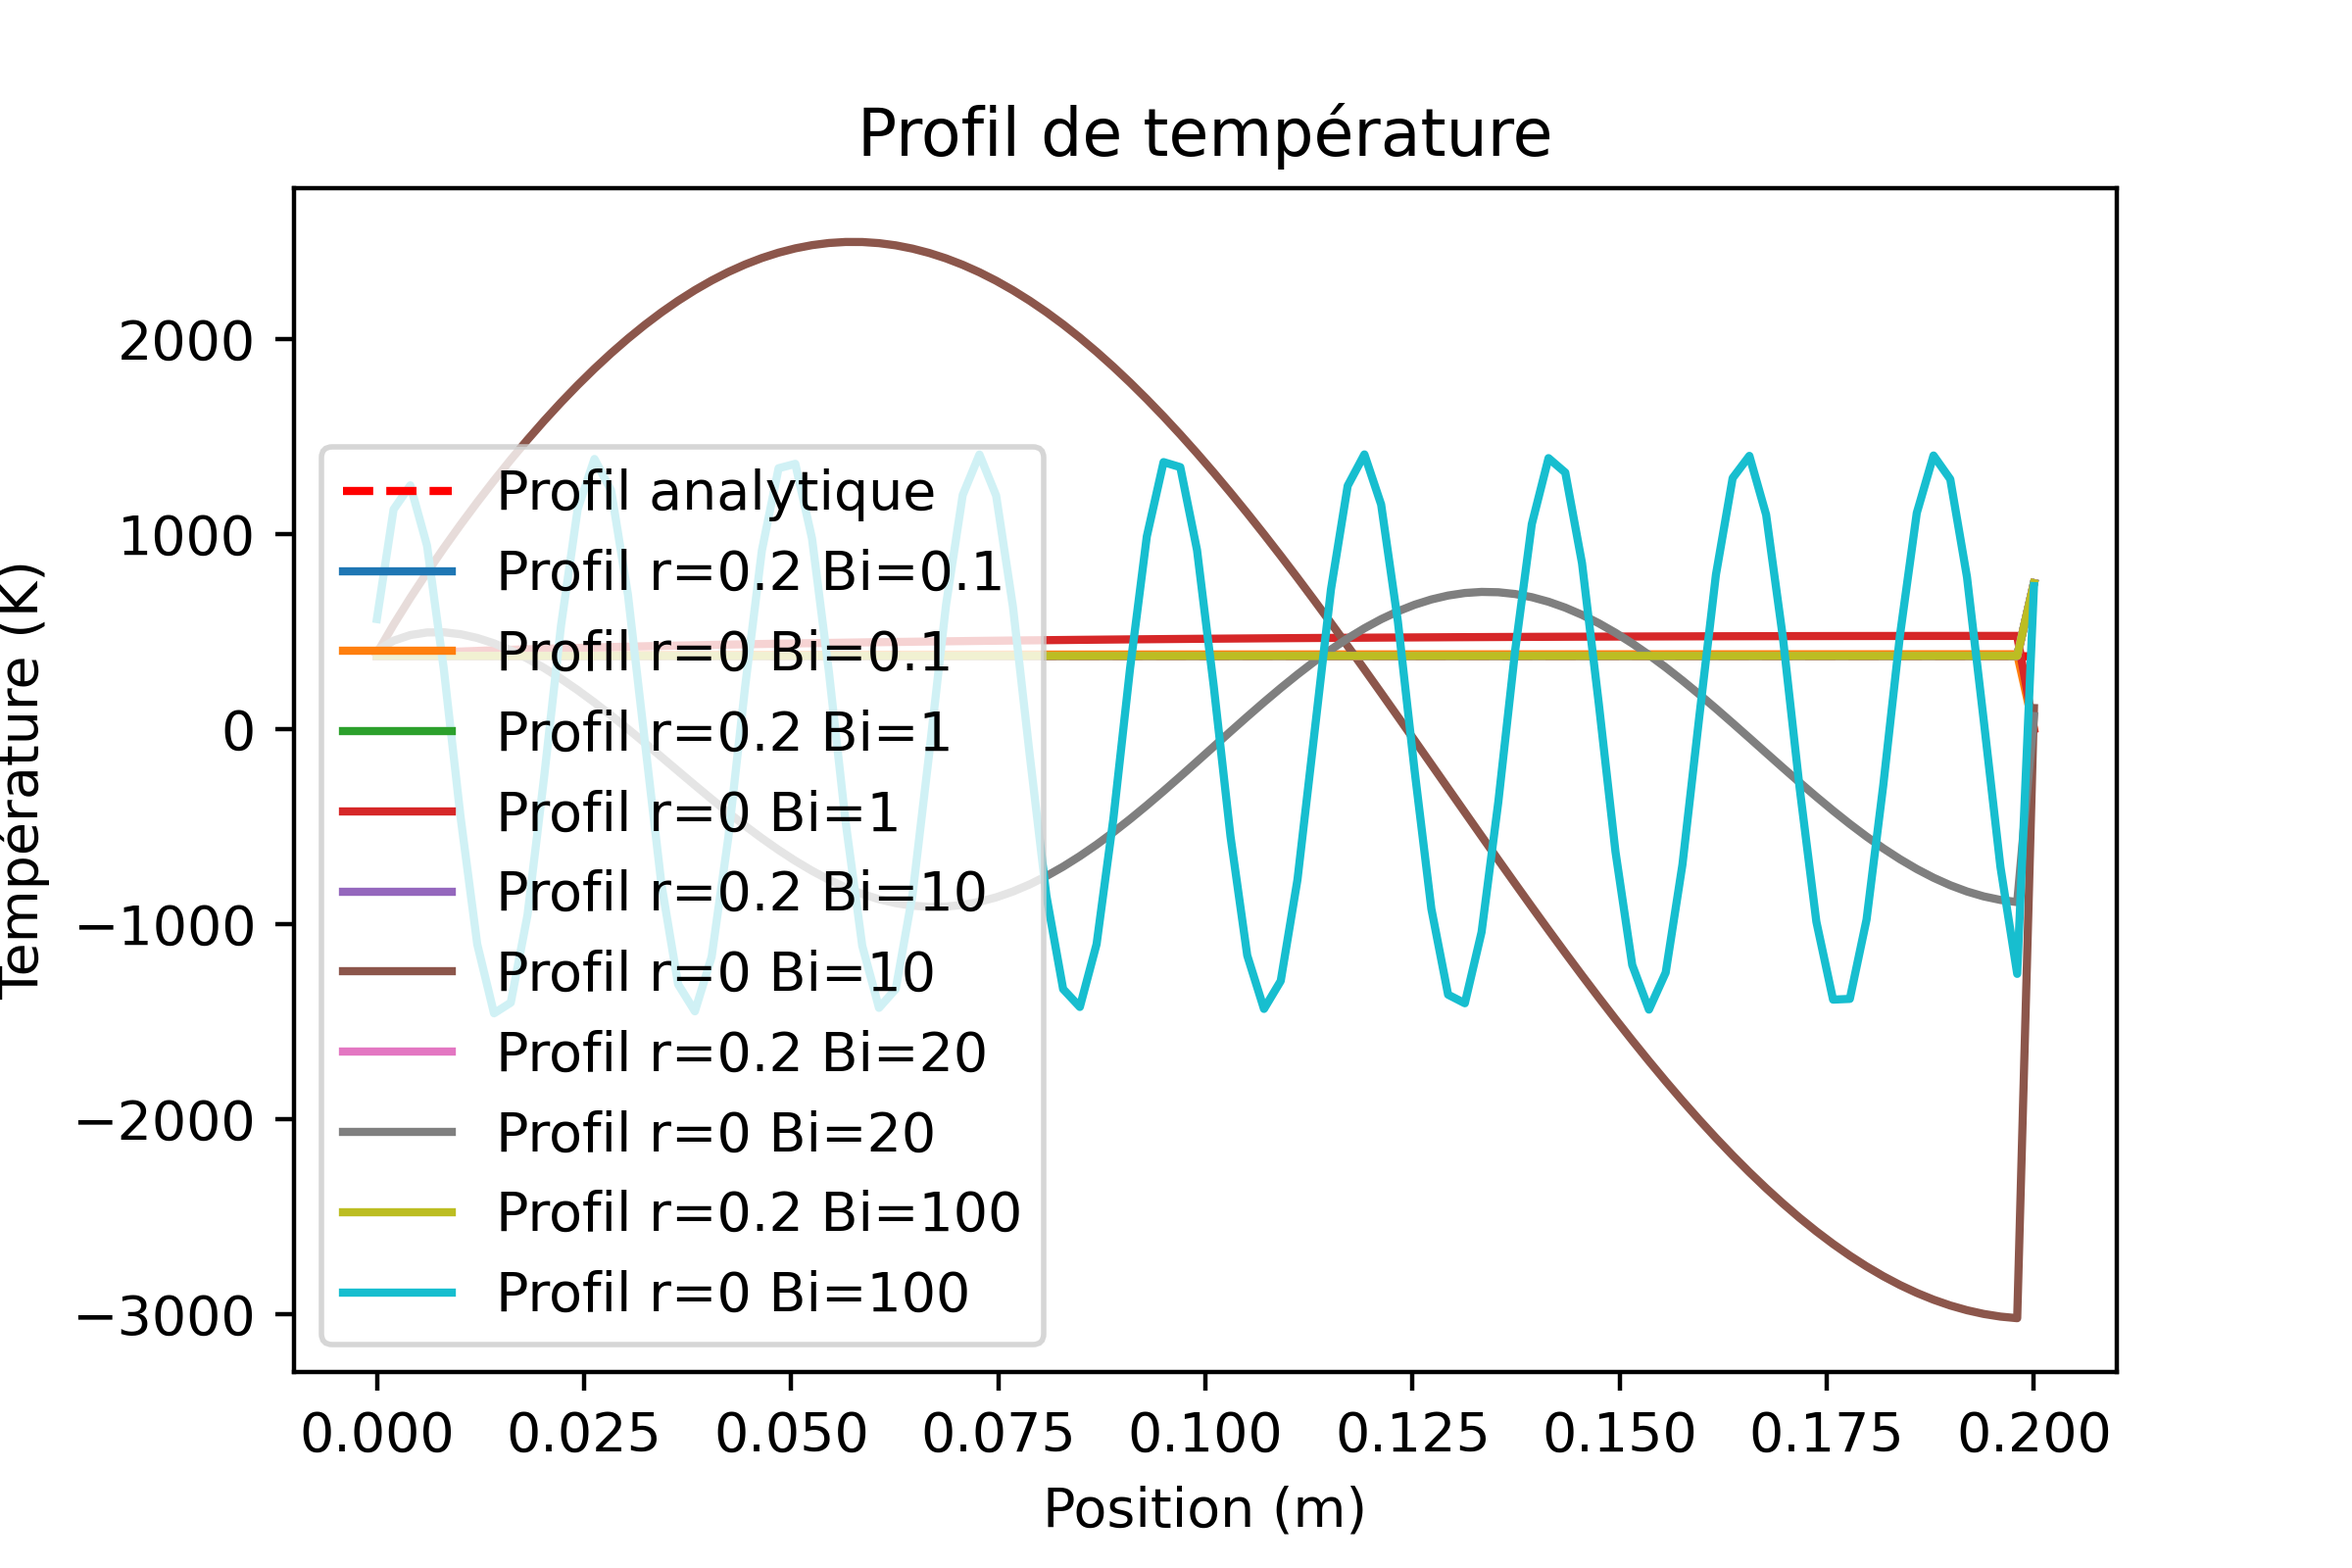
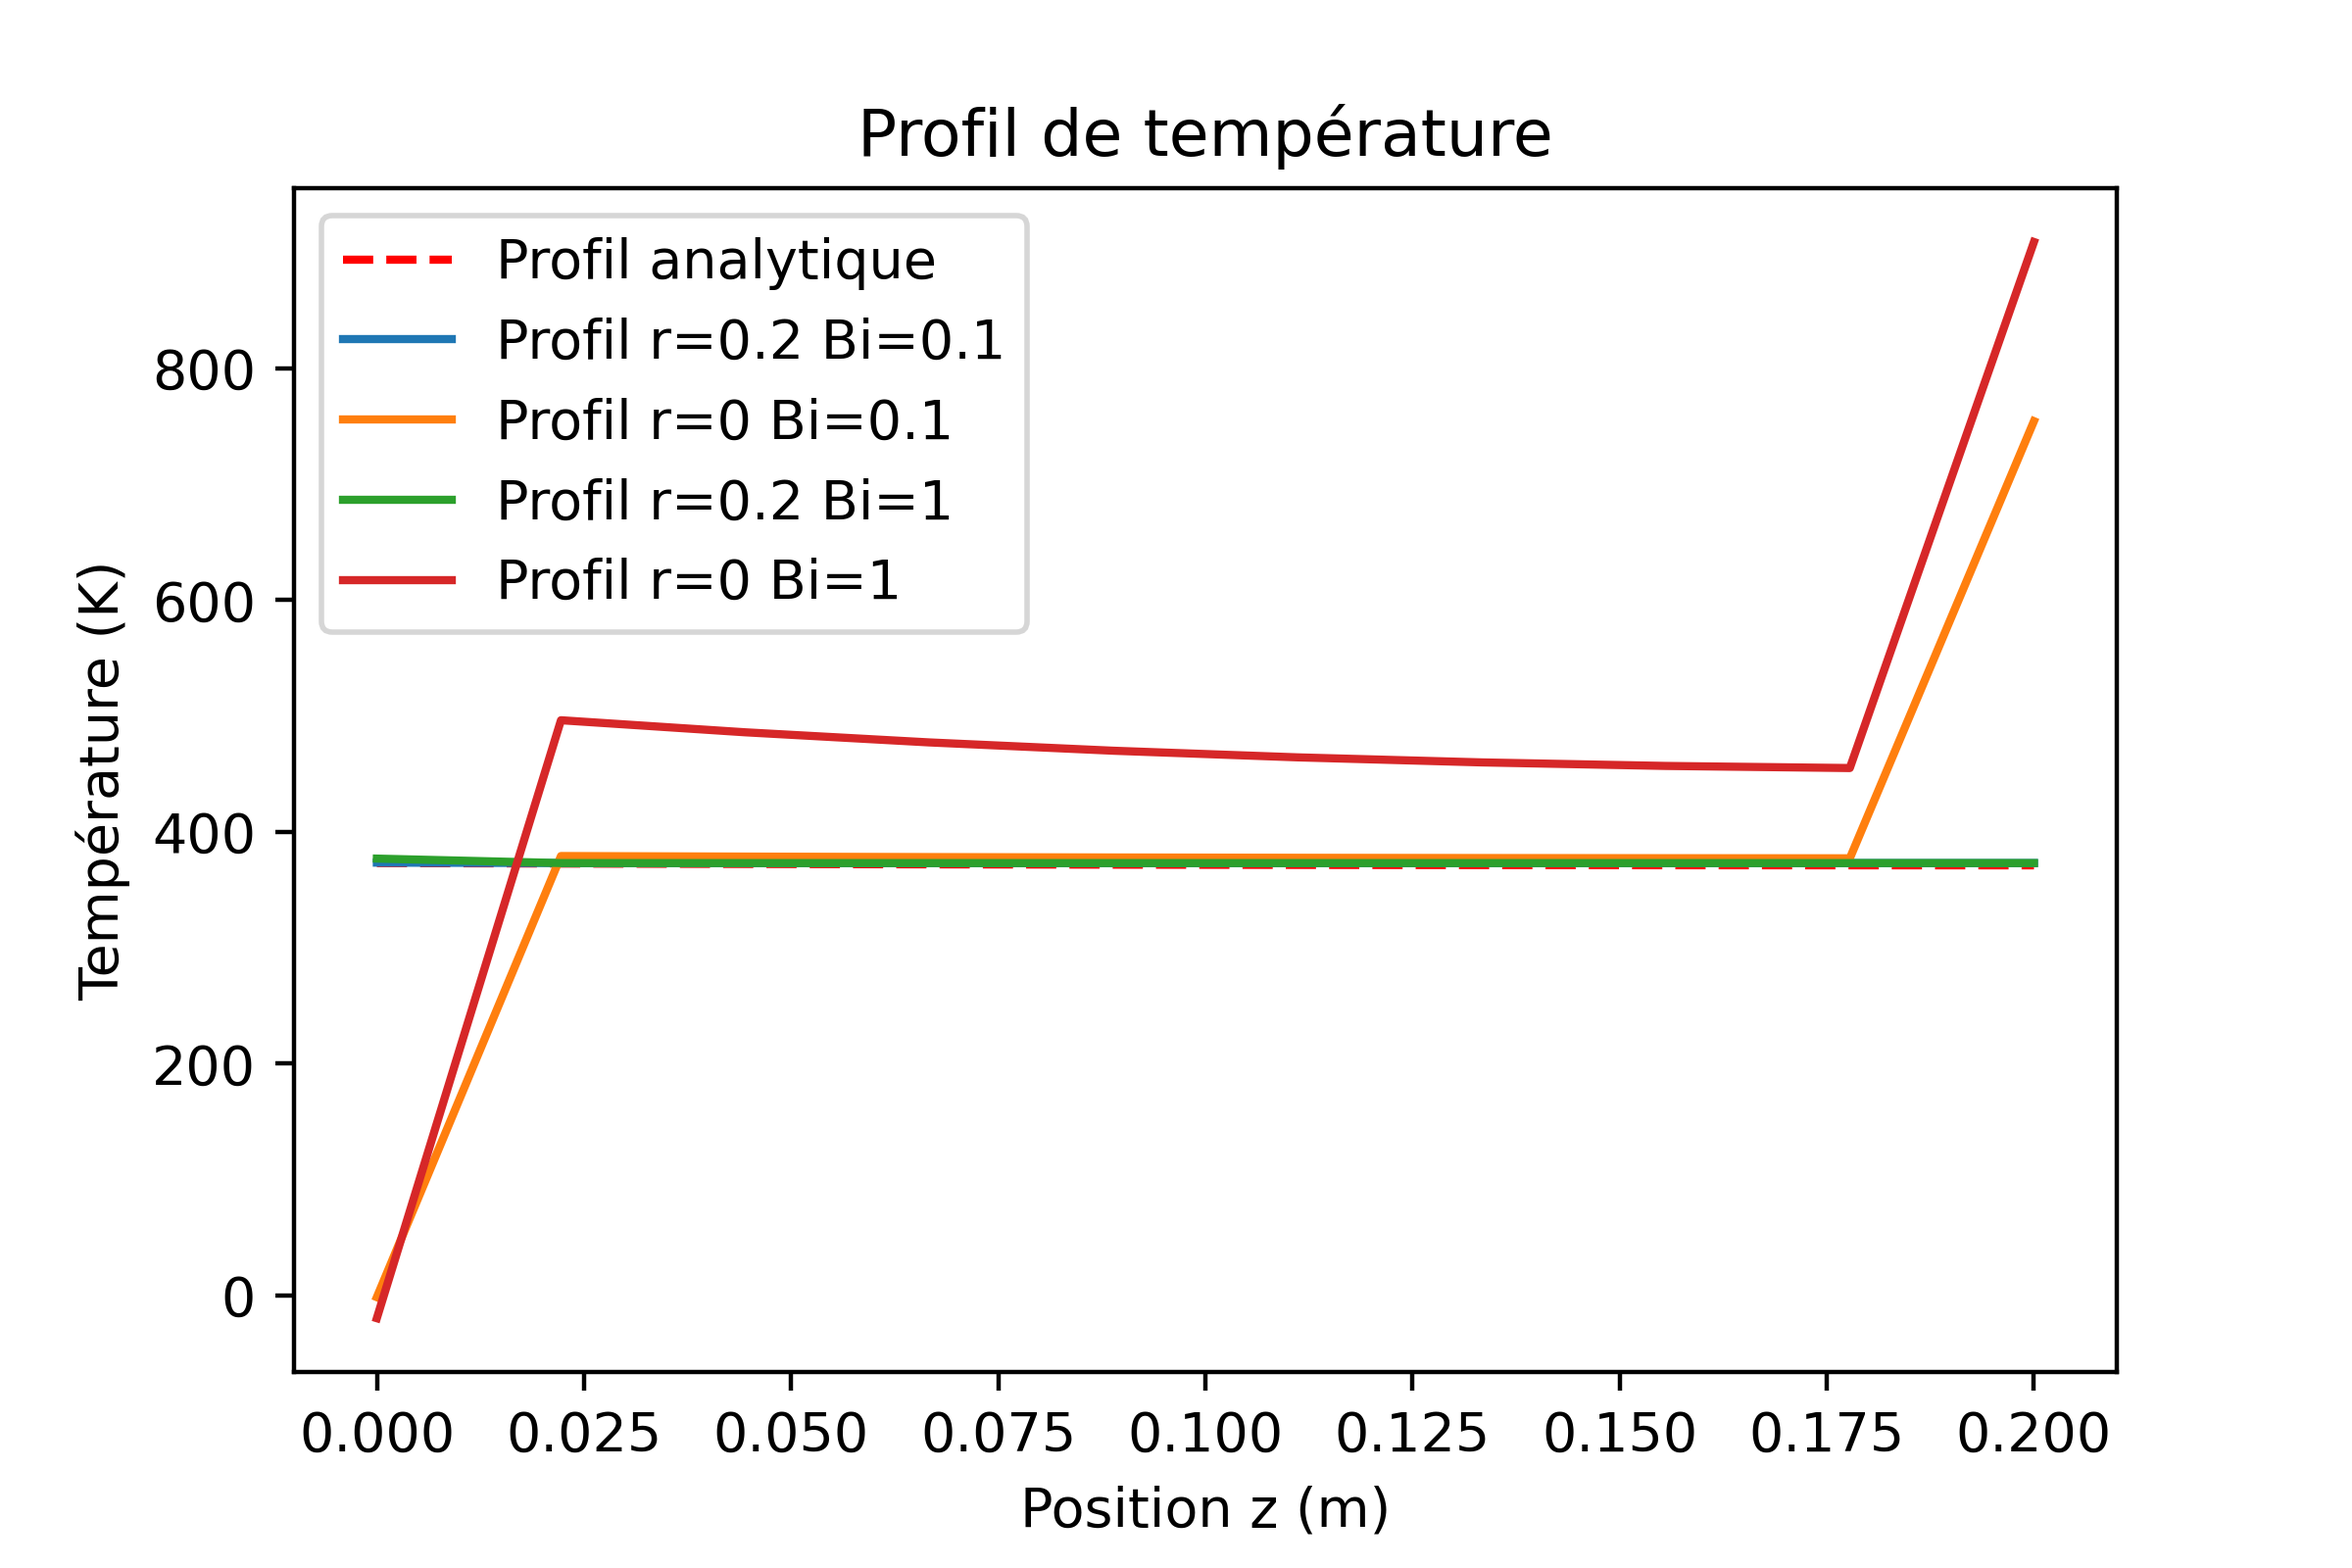
removed transpose

diff --git a/profil.py b/profil.py
@@ -140,31 +140,25 @@ def mdf_assemblage(X,Y,prm):
             k =  i*nr + j
             ri = R-j*dr
             
-            A[k,k+1] = 1/(ri*2*dr) + 1/(dr**2)
-            A[k,k-1] =-1/(ri*2*dr) + 1/(dr**2)
+            A[k,k+1] = -1/(ri*2*dr) + 1/(dr**2)
+            A[k,k-1] = 1/(ri*2*dr) + 1/(dr**2)
             A[k,k] = -2/(dr**2) -2/(dz**2)
             A[k,k+nr] = 1/(dz**2)
             A[k,k-nr] = 1/(dz**2)
             b[k] = 0
-            
-# =============================================================================
-#             
-#             A[k,k-nz] = -1/(x[j,i] * (2*dr)) + 1/(dr**2) 
-#             A[k,k-1] = 1/(dz**2)
-#             A[k,k] = -2/(dr**2) - 2/(dz)
-#             A[k,k+1] = 1/(dz**2)
-#             A[k,k+nz] = 1/(x[j,i] * (2*dr)) + 1/(dr**2)
-#     
-# =============================================================================
+  
     
     # Frontière gauche
+    
     i = 0
     for j in range(0, nr):
         k = i * nr + j
         A[k,k] = 1
         b[k] = T_w
         
+        
     # Frontière droite
+    
     if CL=="isole":
         i = nz - 1
         for j in range(0, nr):
@@ -173,7 +167,6 @@ def mdf_assemblage(X,Y,prm):
             A[k,k-nr] = -4
             A[k,k-2*nr] = 1
             b[k] = 0
-            
     elif CL=="convection":
         i = nz - 1
         for j in range(0, nr):
@@ -198,12 +191,11 @@ def mdf_assemblage(X,Y,prm):
     # Frontière haut
     j = 0
     for i in range(0, nz):
-        k = i * nz + j
+        k = i * nr + j
         A[k,k] = -3 + h*2*dr/k_cond  
         A[k,k+1] = 4
         A[k,k+2] = -1
-        b[k] = h*2*dr/k_cond
-
+        b[k] = h*2*dr*T_inf/k_cond
 
     
     return A, b # à compléter

diff --git a/main.py b/main.py
@@ -23,8 +23,8 @@ T_w = 100+273.15     # [K] Température de base
 R = .2       # [m] Rayon 
 h = 1      # [W/m^2*K] Coefficient de convection
 Bi = 1
-nr = 100       # [-] Nombre de points en z
-nz = 100
+nr = 10       # [-] Nombre de points en z
+nz = 10
 CL = "isole"
     
 prm = Parametres(L, k, T_inf, T_w, R, h, nr, nz,CL)
@@ -43,19 +43,20 @@ x,y = position(X, Y, prm)
 z = np.linspace(0, prm.L, prm.nz)
 T = ref_analytique(z,prm)
 plt.plot(z, T, '--r', label="Profil analytique")
-list_Bi = [0.1, 1, 10, 20, 100]
+# list_Bi = [0.1, 1, 10, 20, 100]
+list_Bi = [0.1, 1]
 
 for Bi_i in list_Bi:
     prm.setBi(Bi_i)
     A,b = mdf_assemblage(X,Y,prm)
     c = np.linalg.solve(A,b) 
-    c_reshaped = c.reshape(prm.nz,prm.nr).transpose()
-    c_R = c_reshaped[-1,:]
-    c_0 = c_reshaped[0,:]
+    c_reshaped = c.reshape(prm.nz,prm.nr)
+    c_R = c_reshaped[0,:]
+    c_0 = c_reshaped[-1,:]
     label_0 = "Profil r=0 Bi="+str(prm.Bi)
     label_R = "Profil r="+str(prm.R)+" Bi="+str(prm.Bi)
-    plt.plot(x[-1,:],c_R,label=label_R)  
-    plt.plot(x[0,:],c_0,label=label_0)  
+    plt.plot(x[0,:],c_R,label=label_R)  
+    plt.plot(x[-1,:],c_0,label=label_0)  
 
 plt.legend()
 plt.title("Profil de température")
